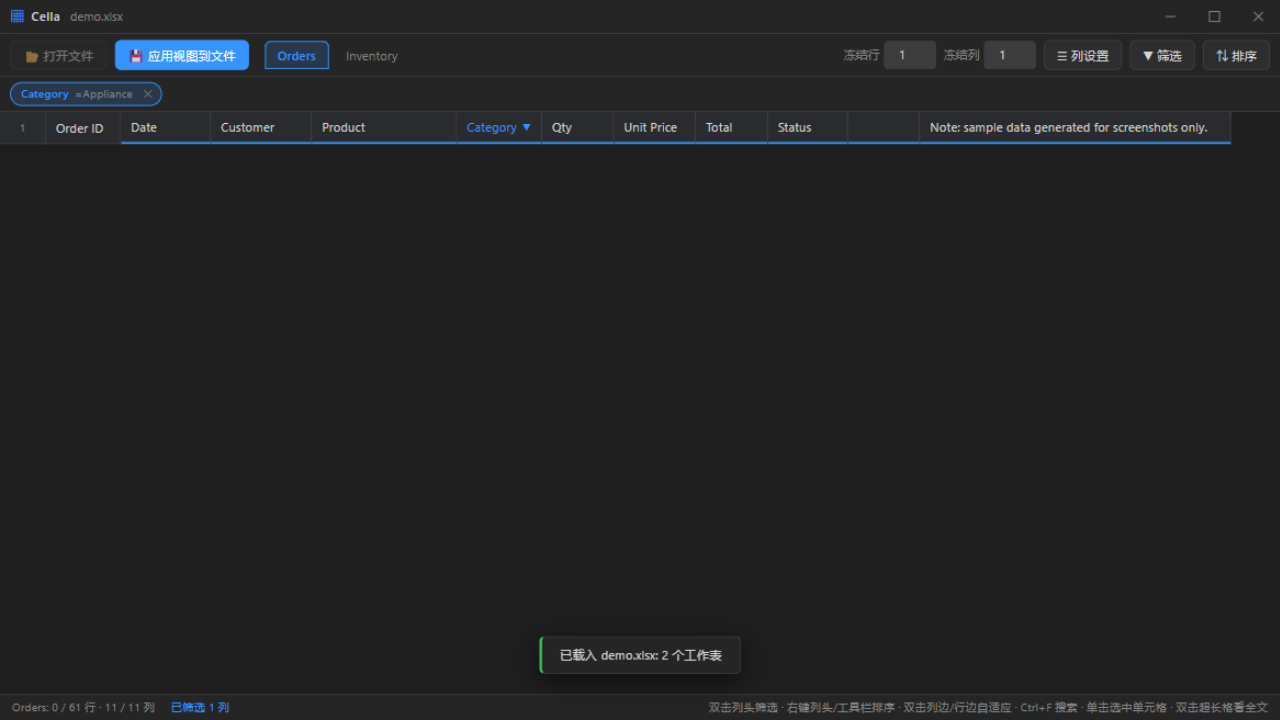
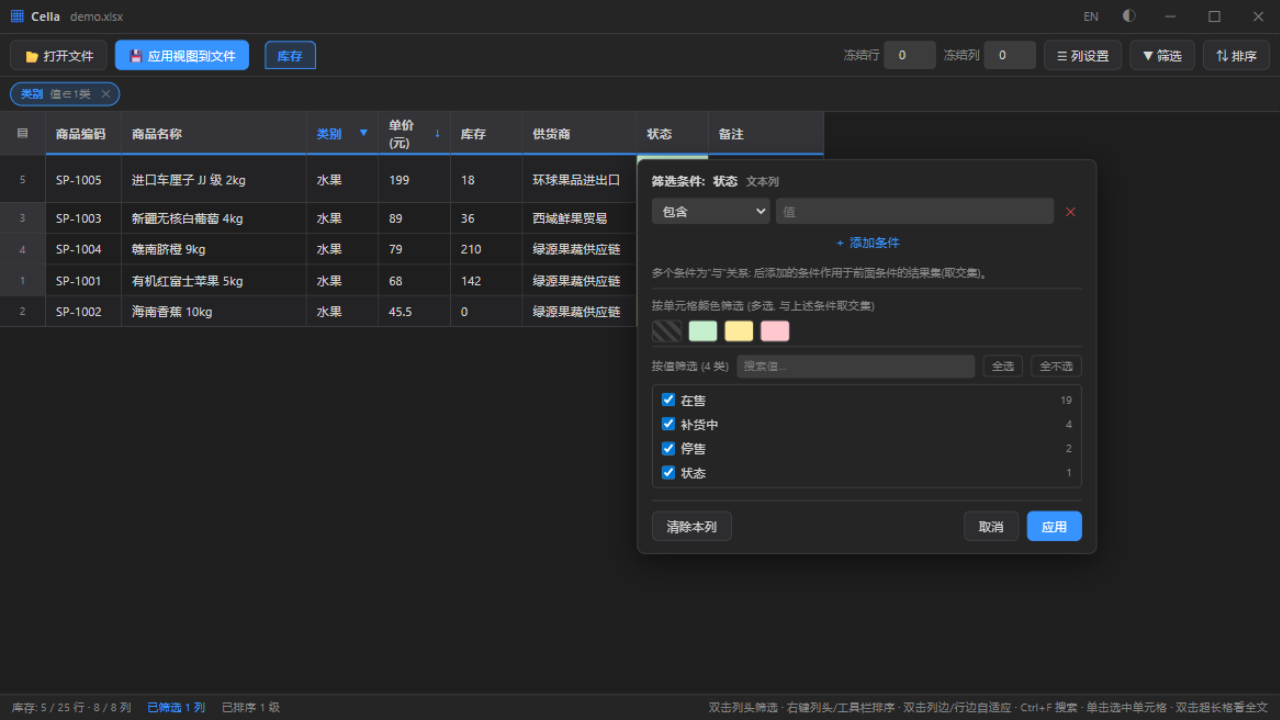
Re-shoot README screenshots with a shared Chinese demo workbook
Both language variants now use the same 25-row inventory dataset (Chinese
product names, colored status column), staged identically (dark+sort,
filter panel, light theme). The English README references the English-UI
variants (assets/*.en.png); the Chinese README keeps the zh-UI shots.

diff --git a/README.en.md b/README.en.md
@@ -6,7 +6,7 @@ A tidy, fast desktop viewer for Excel spreadsheets — open a workbook, browse w
 
 The name comes from Latin *cella* ("small room") — the etymon of the spreadsheet *cell*.
 
-![main view](assets/shot-main.png)
+![main view](assets/shot-main.en.png)
 
 ## Features
 
@@ -22,7 +22,7 @@ The name comes from Latin *cella* ("small room") — the etymon of the spreadshe
 - **Dark / light themes**, **Chinese / English UI** with one-click switching (defaults to the system language; instant toggle from the title bar), virtualized rendering for large sheets
 - Native window resizing and dragging, DPI-friendly, centers on the current monitor
 
-![filtering](assets/shot-filter.png)
+![filtering](assets/shot-filter.en.png)
 
 ## Download & Run
 
@@ -41,7 +41,7 @@ Grab `Cella.exe` from the [Releases](https://github.com/Uky-Otonashi/Cella/relea
    - `.xls`: read-only; the view is saved into a new `.xlsx` beside it.
 5. `--selftest` command-line flag runs an internal bridge/window self-check (logs are written next to the exe).
 
-![light theme](assets/shot-light.png)
+![light theme](assets/shot-light.en.png)
 
 ## Project Structure
 
